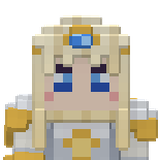
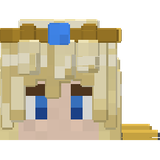
art(entity): 聖騎士シンシアのモデルをディテール80で作り直し
見た目を細かく作り込み、顔と髪を資料に合わせて直した。
デュランダル（手の剣）の見た目・位置は変えていない。

- 見た目: CynthiaMesh を作り直し（直方体141→165個、テクスチャ256×128）。部品の名前と腕・脚の回転の中心は人型のまま
- 見た目: 顔はまゆと目だけ（口・ほお紅・目の光なし）、肌のノイズは6割のドットを94.5〜104%
- 見た目: 髪は顔から0.75浮かせ、前髪8房＋上に3房、サークレットを髪の上の縁へ、横髪2節、後ろ髪5房×3節
- 見た目: 草摺り16枚、スカート2層、マントの短冊19枚（4層）、肩当て3段、指、腰の鎖
- 見た目: 光る層 cynthia_glow.png を追加（宝石・太陽の真ん中・ペンダント・マントのすそ）
- 見た目: マント・スカート・髪のはためき、呼吸、まばたき（72tickに1回・3tick）
- エンティティ: 足もとから上る光の粒（2tickに1個くらい・約1.5ブロック）と、まわりを回る光の玉3つ（高さ1.25・半径0.8ブロック）
- 資料: Claude outputs/tools/cynthia_model.py を追加、PROJECT_OVERVIEW.md・cynthia_preview.png・紹介サイトの boss_cynthia.png を更新

diff --git a/app.js b/app.js
@@ -974,7 +974,7 @@ const DATA = {
 /* ---------- アニメーションするテクスチャ（コマ数, 1 コマの tick 数） ---------- */
 const ANIM = {
   cynthia_prayer: [24, 2], raison_detre: [24, 2], tenkai_raibaku: [24, 2], mercy_light_grimoire: [8, 3],
-  durandal: [20, 2], gungnir: [24, 2], nordensia: [24, 2],
+  gungnir: [24, 2], nordensia: [24, 2],
   magic_soul: [16, 2], mana_shard: [8, 4],
   red_core: [16, 2], green_core: [16, 2], blue_core: [16, 2], purple_core: [16, 2], yellow_core: [16, 2],
   healing_wand: [8, 3], mercy_light_wand: [24, 2],
@@ -1251,6 +1251,7 @@ function portrait(file, name, size) {
   return img;
 }
 [['mob_wizard_villager', '魔法使い（村人）', '合成台のある村', '村人の職業。村に合成台があると、村人のひとりが魔法使いになる。マナのかけら 5〜30 個とコンパス 1 個を渡すと、ダンジョンの地図と交換してくれる。レベルを上げるほど行ける場所が増える（新米：沼地の小屋・大きな浮島／見習い：火山・巨大樹／一人前：雷獣の渓谷・フレイムジグラート／熟練者：ルーンドーム・大海の塔／達人：聖なる遺跡・魔獣の遺跡）。'],
+ ['mob_unicorn', 'ユニコーン', 'クリスタルの野（まれ）', '友好的な白い馬。ウマと同じく、何度か乗るうちになつき、鞍をつけて乗れる。体力 30〜40・足の速さもジャンプ力もウマより上。繁殖はできない。倒すと革と、30% でユニコーンの角（ドロップ増加で 1 レベルにつき +10%）を落とす。'],
  ['mob_shell_crab', 'シェルクラブ', '砂浜・石だらけの海岸・大海の塔', '体力 100。青い甲羅のカニ。攻撃を受けると、ときどき殻にこもって守りを固める。ブルーコアを落とす。'],
  ['mob_thunder_element', 'サンダーエレメント', '雷獣の渓谷', '体力 40。ビリビリした雷の塊。宙をただよい、15 m 以内の相手に雷のビームを放つ。イエローコアを落とす。'],
  ['mob_demon_imp', '炎の悪魔', '焔魔イグニードが呼ぶ', '体力 60。宙をただよう小さな赤い悪魔。爪で相手を燃やし、炎の弾を撃つ。ドロップはない。'],
@@ -1417,6 +1418,9 @@ const PLACES = [
   ['雷獣の渓谷', 'バッドランズ・侵食されたバッドランズ・樹木のバッドランズ', '#f0c93a',
    '台地を割る深い谷と、谷をまたぐ吊り橋。谷のつきあたりから斜めに下ると、地下 2 層の洞窟が広がる。広場と通路の並びは、ワールドごと（場所ごと）に変わる。サンダーエレメントとイエローメイジがさまよい、1 層目には吊り橋のかかった大空洞、2 層目への縦穴にははしごがある。',
    ['行き止まりや広場に宝箱とスポナー、各層に仕掛け線の罠の部屋', '2 層目に宝物の部屋（いい宝箱）', '一番奥の円形の寝床で雷獣フルガリオンが目を覚ます（奥の壇に宝箱が 3 つ）']],
+  ['クリスタルの野', '涼しく乾いた平原の奥（沼地より珍しいバイオーム）', '#f3a8cf',
+   '白っぽい草原に、淡いピンクの結晶がとがって生える聖なる野。白い幹にピンクや水色の葉をつけた白晶樹が立ち、水は神秘的な藤色。空中には小さな光の粒がただよう。',
+   ['クリスタルブロック（壊すとクリスタル 1〜2 個・幸運で増える）', 'ごくまれに紫のマナクリスタルの結晶（ダイヤのツルハシ以上）', 'クリスタルの芽・クリスタルローズ・白晶樹（木材一式）', 'ユニコーンがまれに現れる']],
   ['聖なる遺跡', '平原・ヒマワリ平原', '#f0d060',
    '崩れた石の広場から、らせん階段で地下 8 層へ。暗く、死者やクモ、イエローメイジ、ホーリースピリットがさまよう。仕掛け線の罠やスポナーの部屋に注意。',
    ['チェストの魔導書は、出にくいかわりにレア・エピックが中心', '7〜8 層目に宝物庫（魔導書 1〜2 冊・聖獣の卵 20%）', '最深部の大広間で聖騎士シンシアが目覚める']],

diff --git a/index.html b/index.html
@@ -194,7 +194,7 @@
     <!-- ===== 生き物 ===== -->
     <section id="creatures" class="section tab-content">
       <h2 class="section-title"><span>生き物</span></h2>
-      <p class="section-lead">メイジには6色の同族が存在し、生息地によって放つ魔法が異なる。倒すと10%の確率で「壊れた杖」を、色付きのメイジは1%の確率でコアをドロップする。さらに上位のメイジ（フレイム・アース・アイス・ライト・ダーク）は、それぞれ強力な固有の魔法を操り、10%で「魔法の杖」、3%でコアを落とす。遺跡には精霊が、海辺にはカニが生息している。村に合成台を設置すれば、地図を交換してくれる魔法使いの村人も現れる。</p>
+      <p class="section-lead">メイジには6色の同族が存在し、生息地によって放つ魔法が異なる。倒すと10%の確率で「壊れた杖」を、色付きのメイジは1%の確率でコアをドロップする。さらに上位のメイジ（フレイム・アース・アイス・ライト・ダーク）は、それぞれ強力な固有の魔法を操り、10%で「魔法の杖」、3%でコアを落とす。遺跡には精霊が、海辺にはカニが、クリスタルの野にはユニコーンが生息している。村に合成台を設置すれば、地図を交換してくれる魔法使いの村人も現れる。</p>
       <div class="mob-grid" id="mob-grid"></div>
     </section>
 
